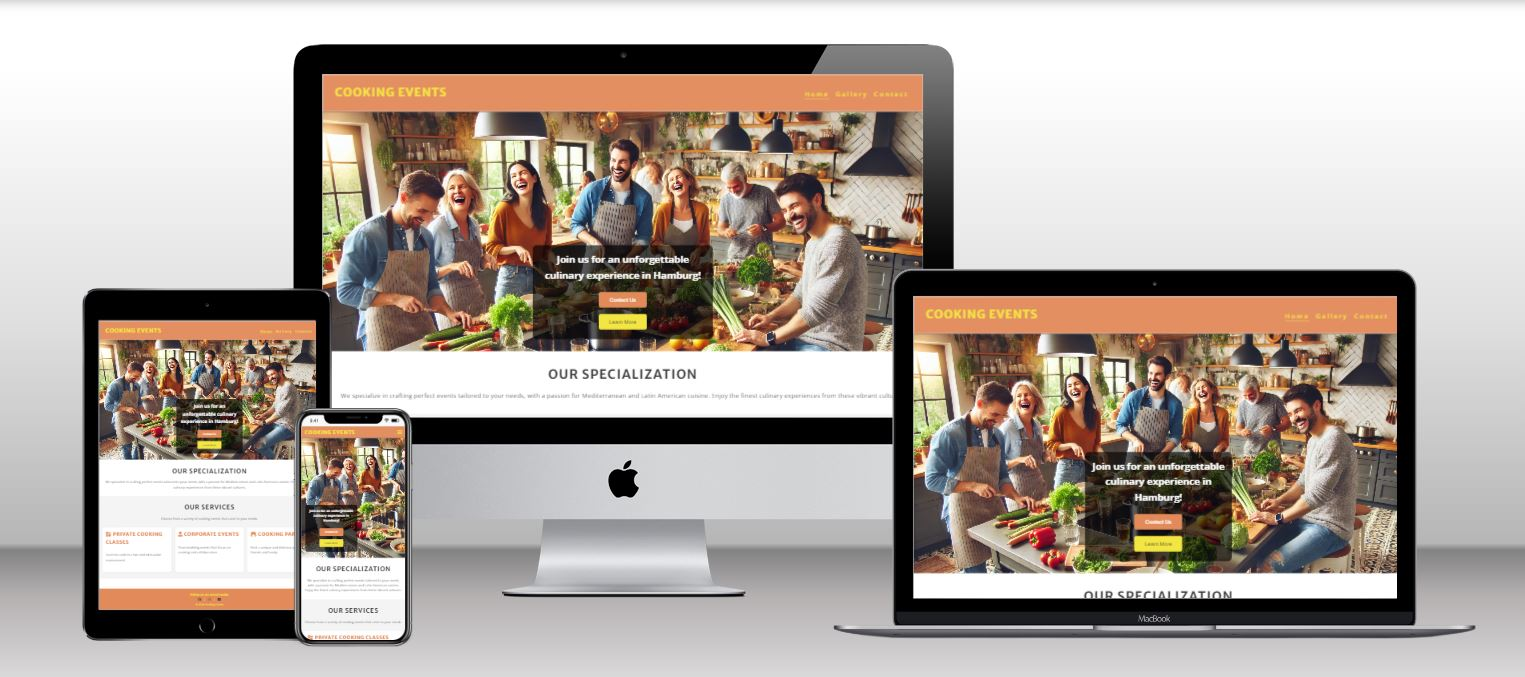
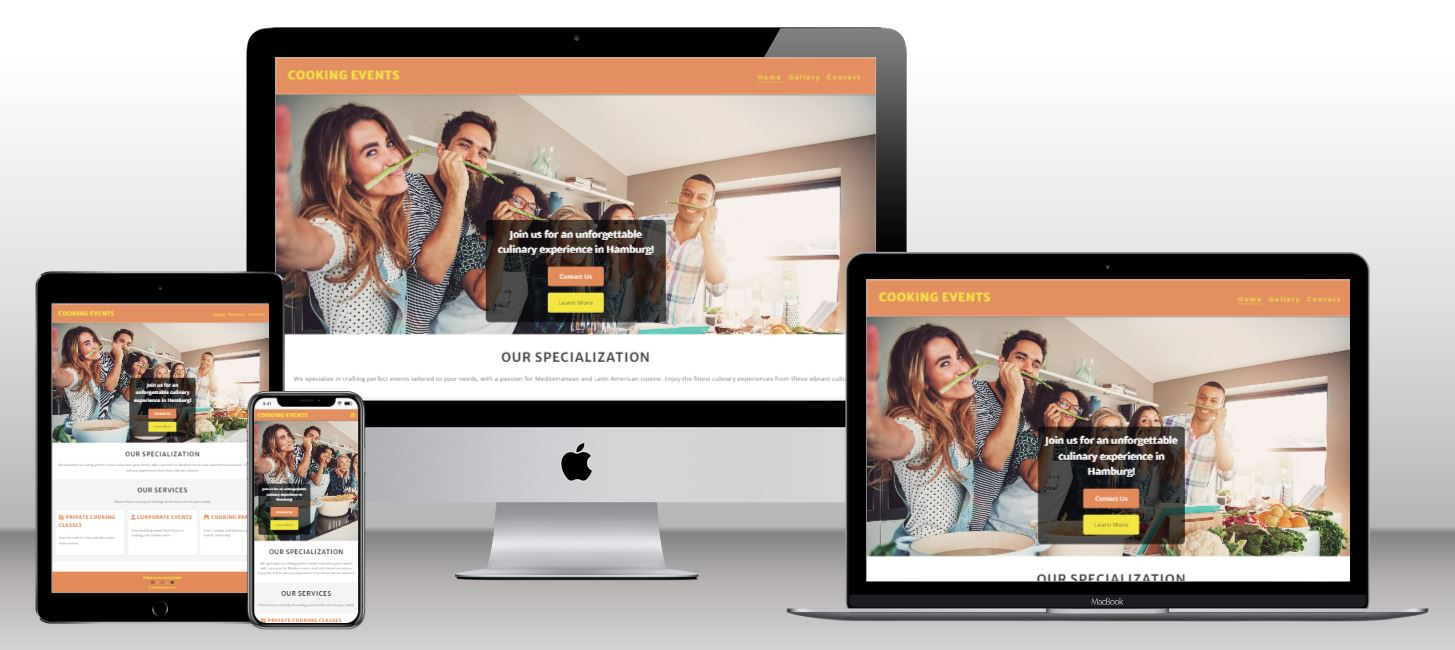
Major update to the readme

diff --git a/README.md b/README.md
@@ -1,55 +1,55 @@
 # Cooking Event Service Website
 
-![Cooking Events](readme-docs\multi-device-website-mockup.JPG)
+![Cooking Events](readme-docs/features/multi-device-website-mockup.JPG)
 
 Visit the deployed site: [HH Cooking Events](https://galindo89.github.io/cooking-events-page-pgz/)
 
-A website for showcasing and organizing cooking events in Hamburg, Germany.
+A website that presents an cooking event service provided with passion for mediterranean and latin american food that organizes private cooking events in Hamburg, Germany
 
 
 ## CONTENTS
 
-- [Introduction](#introduction)
-  - [Purpose of the project](#purpose-of-the-project)
-- [User Experience](#user-experience-ux)
-  - [User Stories](#user-stories)
-- [Design](#design)
-  - [Colour Scheme](#colour-scheme)
-  - [Typography](#typography)
-  - [Imagery](#imagery)
-  - [Wireframes](#wireframes)
-  - [Features](#features)
-    - [Home Page](#home-page)
-    - [Gallery Page](#gallery-page)
-    - [Contact Page](#contact-page)
-    - [Confirmation Page](#confirmation-page)
-    - [Future Implementations](#future-implementations)
-  - [Accessibility](#accessibility)
-- [Technologies Used](#technologies-used)
-  - [Languages Used](#languages-used)
-  - [Frameworks, Libraries & Programs Used](#frameworks-libraries--programs-used)
-- [Deployment & Local Development](#deployment--local-development)
-  - [Deployment](#deployment)
-  - [Local Development](#local-development)
-    - [How to Fork](#how-to-fork)
-    - [How to Clone](#how-to-clone)
-- [Testing](#testing)
-  - [Feature Testing](#feature-testing)
-  - [Browser Compatibility](#browser-compatibility)
-  - [Responsiveness Testing](#responsiveness-testing)
-  - [Code Validation](#code-validation)
-    -[HTML](#HTML)
-    -[CSS](#CSS)
-  - [Lighthouse Testing](#lighthouse-testing)
-  - [Accessibility Testing](#accessibility-testing)
-  - [Bugs Documentation](#bugs-documentation)
-  - [Solved Bugs](#solved-bugs)
-  - [Known Bugs](#known-bugs)
-- [Credits](#credits)
-  - [Code Used](#code-used)
-  - [Content](#content)
-  - [Media](#media)
-  - [Acknowledgments](#acknowledgments)
+- [Cooking Event Service Website](#cooking-event-service-website)
+  - [CONTENTS](#contents)
+  - [Introduction](#introduction)
+    - [Purpose of the project](#purpose-of-the-project)
+  - [User Experience (UX)](#user-experience-ux)
+    - [User Stories](#user-stories)
+  - [Design](#design)
+    - [Colour Scheme](#colour-scheme)
+    - [Typography](#typography)
+    - [Imagery](#imagery)
+    - [Wireframes](#wireframes)
+    - [Features](#features)
+      - [Home Page](#home-page)
+      - [Gallery Page](#gallery-page)
+      - [Contact Page](#contact-page)
+      - [Confirmation Page](#confirmation-page)
+      - [Future Implementations](#future-implementations)
+  - [Technologies Used](#technologies-used)
+    - [Languages Used](#languages-used)
+    - [Frameworks, Libraries \& Programs Used](#frameworks-libraries--programs-used)
+  - [Deployment \& Local Development](#deployment--local-development)
+    - [Deployment](#deployment)
+    - [Local Development](#local-development)
+      - [How to Fork](#how-to-fork)
+      - [How to Clone](#how-to-clone)
+  - [Testing](#testing)
+    - [Feature Testing](#feature-testing)
+    - [Browser Compatibility](#browser-compatibility)
+    - [Responsiveness Testing](#responsiveness-testing)
+    - [Code Validation](#code-validation)
+      - [HTML](#html)
+      - [CSS](#css)
+    - [Lighthouse Testing](#lighthouse-testing)
+    - [Bugs Documentation](#bugs-documentation)
+    - [Solved Bugs](#solved-bugs)
+    - [Known Bugs](#known-bugs)
+  - [Credits](#credits)
+    - [Code Used](#code-used)
+    - [Media](#media)
+    - [Acknowledgments](#acknowledgments)
+    - [Contact](#contact)
 
 ## Introduction
 ### Purpose of the project
@@ -85,7 +85,12 @@ For the typography, two primary fonts to enhance readability and complement the 
 Images were chosen to showcase the vibrant and interactive nature of our cooking events, including photos of past events and culinary creations.
 
 ### Wireframes
-(Add wireframes here)
+During the design phase, wireframes were used to sketch the potential structure of the web page, especially for the mobile and desktop versions. The wireframes were hand-sketched. The following pictures show the sketches produced:
+
+
+![Home Page Desktop](readme-docs/wireframes/wireframe-home-desktop.jpg)
+![Home Page Mobile](readme-docs/wireframes/wireframe-home-mobile.jpg)
+![Contact Page](readme-docs/wireframes/wireframe-contact-form-mobile.jpg)
 
 ### Features
 The website is designed to provide visitors with a comprehensive and engaging experience, showcasing what the company offers and its specialization in Mediterranean and Latin American food events. Each page serves a specific purpose, ensuring that users can easily find the information they need and interact with the site effectively.
@@ -131,7 +136,6 @@ Future features may include:
 
 ### Frameworks, Libraries & Programs Used
 
-- [Balsamiq](https://balsamiq.com/) - Used to create wireframes.
 - [Git](https://git-scm.com/) - For version control.
 - [GitHub](https://github.com/) - To save and store the files for the website.
 - [GitPod](https://gitpod.io/) - IDE used to create the site.
@@ -177,7 +181,41 @@ To clone the repository:
 
 ## Testing
 ### Feature Testing
-(Add details about feature testing here)
+
+
+In the feature testing phase, we conducted a series of tests to ensure that all key functionalities of the website are working as intended. We tested various components across different pages, including the navigation bar, footer, buttons, sections, and forms. Each feature was tested in different scenarios to verify their behavior and responsiveness.
+
+All test cases were conducted using three different web browsers:
+- Google Chrome
+- Firefox
+- Microsoft Edge
+
+The devices used for the testing were:
+- Google Pixel 7
+- Microsoft Surface Notebook 2
+- 1920 x 1080 desktop monitor
+
+Below is a summary of the test cases and their results.
+
+
+| Feature                | Page         | Scenario                                                                                                       | Steps                                                                                                       | Expected result                                                                                                                                                                                                                                                                                                | Result |
+| ---------------------- | ------------ | -------------------------------------------------------------------------------------------------------------- | ----------------------------------------------------------------------------------------------------------- | -------------------------------------------------------------------------------------------------------------------------------------------------------------------------------------------------------------------------------------------------------------------------------------------------------------- | ------ |
+| Navigation bar         | All          | User clicks on Logo section                                                                                    | Go to any of the pages and click on the Cooking Event logo                                                  | User is redirected to the home page in the same tab                                                                                                                                                                                                                                                            | Passed |
+| Navigation bar         | All          | User clicks on any of the links available                                                                      | Go to any of the pages. On the top right click on any of the available links                                | User is redirected to the corresponding page in the same tab. When in the page the navigation bar highlights the page where you currently are                                                                                                                                                                  | Passed |
+| Navigation bar         | All          | User is accessing the page with a device with a screen smaller than 768px. User goes to the navigation section | Go to the navigation section.                                                                               | Navigation links will be hidden and instead the UI will present a burger button. When clicking on it the UI will present the list of pages (Home, Gallery, Contact)                                                                                                                                            | Passed |
+| Footer                 | All          | User clicks on any of the social media links available                                                         | Go to the footer section of any of the pages. Click on any of the social media links                        | User will be directed to the corresponding social media site. A new tab is opened.                                                                                                                                                                                                                             | Passed |
+| Home page              | Home page    | User enters the home page                                                                                      | Enter the URL of the page or click on any of the links that directs to the home page                        | Home page loads. The hero section is loaded and a message including 2 buttons is displayed                                                                                                                                                                                                                     | Passed |
+| Learn More Button      | Home page    | User is in the home page and clicks on the "Learn More" button                                                 | Go to the home page, in the hero image section, 2 buttons will be displayed. Click on the Learn More button | The user will be directed to the specialization and services sections that are also part of the home page                                                                                                                                                                                                      | Passed |
+| Contact Us Button      | Home page    | User is in the home page and clicks on the "Contact Us" button                                                 | Go to the home page, in the hero image section, 2 buttons will be displayed. Click on "Contact Us" button   | The user will be directed to the contact page. There the user will be able to fill in a form to submit a request for reservation or for interest into a specific event                                                                                                                                         | Passed |
+| Specialization section | Home page    | User accesses the home page                                                                                    | Go to the home page. Scroll down below the hero section                                                     | User is presented with a description of what is the specialty of the service provider                                                                                                                                                                                                                          | Passed |
+| Services section       | Home page    | User accesses the home page                                                                                    | Go to the home page. Scroll down below the specialization section                                           | User is presented with a description of the different types of cooking events offered                                                                                                                                                                                                                          | Passed |
+| Gallery with pictures  | Gallery      | User accesses the gallery page                                                                                 | Click on any link leading to the gallery section                                                            | User will be displayed with a different number of images. For screens with a width bigger than 1200px, the images will be displayed in four columns. For screens between 768px and 1200px, the images will be displayed in two columns. For any screen below 768px, the images will be displayed in one column | Passed |
+| Submit Form            | Contact      | User accesses the contact page                                                                                 | Click on any link leading to the contact page                                                               | User is directed to the contact page in the same tab. Page loads a form with several fields to fill in                                                                                                                                                                                                         | Passed |
+| Submit Form            | Contact      | Users fill in the contact page                                                                                 | Go to the contact page. Start filling in the form                                                           | User is able to fill in the form. The UI displays clearly which fields are mandatory                                                                                                                                                                                                                           | Passed |
+| Submit Form            | Contact      | Users click on submit form. Form has still required fields empty                                               | Go to the contact page. Click on submit form button                                                         | User is notified by the UI that the form is still incomplete. User cannot submit the form                                                                                                                                                                                                                      | Passed |
+| Submit Form            | Contact      | Users click on submit form. Form has all mandatory fields properly filled in                                   | Go to the contact page. Fill in all mandatory fields from the form                                          | User is directed to a confirmation page in the same tab. The confirmation page confirms the user that the request has been successfully sent. It presents also besides the navigation bar a home button for the user to go back to the home page                                                               | Passed |
+| Confirmation message   | Confirmation | User clicks on the home button                                                                                 | In the confirmation page, below the confirmation message, click on the home button                          | User is directed to the home page in the same tab                                                                                                                                                                                                                                                              | Passed |
+
 
 ### Browser Compatibility
 The project was tested in Chrome, Firefox, and Edge. No issues were found.
@@ -185,7 +223,7 @@ The project was tested in Chrome, Firefox, and Edge. No issues were found.
 The results of the testing are presented in the following table:
 
 | Browser tested | Intended appearance | Intended responsiveness | Comment         |
-|----------------|---------------------|-------------------------|-----------------|
+| -------------- | ------------------- | ----------------------- | --------------- |
 | Chrome         | Good                | Good                    | No issues found |
 | Firefox        | Good                | Good                    | No issues found |
 | Edge           | Good                | Good                    | No issues found |
@@ -197,12 +235,12 @@ The project was tested directly on 3 different screens:
 - Notebook: Microsoft Surface Notebook 2
 - Desktop monitor: 1920 x 1080 resolution
 
-| Device tested                      | Site responsiveness <= 767 px                                                         | Site responsiveness 768px <= x <= 991px                                                     | Site responsiveness x >= 992px                                                                                     |
-|------------------------------------|---------------------------------------------------------------------------------------|---------------------------------------------------------------------------------------------|--------------------------------------------------------------------------------------------------------------------|
-| Google Pixel 7                     | Good. All pages rendering content as expected and behaving as implemented              | N/A                                                                                         | N/A                                                                                                                |
-| iPad mini (over Chrome's developer console) | N/A                                                                                   | Good. All pages rendering content as expected and behaving as implemented                    | N/A                                                                                                                |
-| 1504 x 1003 Microsoft Surface Notebook screen | N/A                                                                                   | N/A                                                                                         | Good. All pages rendering content as expected and behaving as implemented                                            |
-| 1920 x 1080 desktop monitor        | N/A                                                                                   | N/A                                                                                         | Good. All pages rendering content as expected and behaving as implemented                                            |
+| Device tested                                 | Site responsiveness <= 767 px                                             | Site responsiveness 768px <= x <= 991px                                   | Site responsiveness x >= 992px                                            |
+| --------------------------------------------- | ------------------------------------------------------------------------- | ------------------------------------------------------------------------- | ------------------------------------------------------------------------- |
+| Google Pixel 7                                | Good. All pages rendering content as expected and behaving as implemented | N/A                                                                       | N/A                                                                       |
+| iPad mini (over Chrome's developer console)   | N/A                                                                       | Good. All pages rendering content as expected and behaving as implemented | N/A                                                                       |
+| 1504 x 1003 Microsoft Surface Notebook screen | N/A                                                                       | N/A                                                                       | Good. All pages rendering content as expected and behaving as implemented |
+| 1920 x 1080 desktop monitor                   | N/A                                                                       | N/A                                                                       | Good. All pages rendering content as expected and behaving as implemented |
 
 
 ### Code Validation
@@ -212,19 +250,19 @@ HTML code validation was conducted using the [W3C Markup Validation Service](htt
 
 
 
-| Page Tested         | Errors                                                                                                                                           | Solutions applied?                                                                                                                      | Screenshot of clear validator output                                           |
-|---------------------|--------------------------------------------------------------------------------------------------------------------------------------------------|-----------------------------------------------------------------------------------------------------------------------------------------|--------------------------------------------------------------------------------|
-| index.html          | "Error: The element button must not appear as a descendant of the a element.<br>Error: Stray end tag i.<br>Error: Stray end tag i.<br>Error: Stray end tag main." | "Remove the `<button>` elements from inside `<a>` tags. Replace them with styled `<a>` tags or modify the structure to avoid nesting `<button>` inside `<a>`. <br><br>Fix the stray end tag `<i>` and `<main>` issues by removing the extra closing tags." | ![index.html validation result](readme-docs/testing/code-validation-index-html-after-fix.JPG) |
-| gallery.html        | No error                                                                                                                                         | N/A                                                                                                                                     | ![gallery.html validation result](readme-docs/testing/code-validation-gallery.JPG) |
-| contact.html        | Error: The value of the for attribute of the label element must be the ID of a non-hidden form control.                                           | Update the "for" attribute of the label   element                                                                                           | ![contact.html validation result](readme-docs/testing/code-validation-contact-after-fix.JPG) |
-| confirmation.html   | No error  | N/A | ![confirmation.html validation result](readme-docs/testing/code-validation-confirmation.JPG) |
+| Page Tested       | Errors                                                                                                                                                            | Solutions applied?                                                                                                                                                                                                                                         | Screenshot of clear validator output                                                          |
+| ----------------- | ----------------------------------------------------------------------------------------------------------------------------------------------------------------- | ---------------------------------------------------------------------------------------------------------------------------------------------------------------------------------------------------------------------------------------------------------- | --------------------------------------------------------------------------------------------- |
+| index.html        | "Error: The element button must not appear as a descendant of the a element.<br>Error: Stray end tag i.<br>Error: Stray end tag i.<br>Error: Stray end tag main." | "Remove the `<button>` elements from inside `<a>` tags. Replace them with styled `<a>` tags or modify the structure to avoid nesting `<button>` inside `<a>`. <br><br>Fix the stray end tag `<i>` and `<main>` issues by removing the extra closing tags." | ![index.html validation result](readme-docs/testing/code-validation-index-html-after-fix.JPG) |
+| gallery.html      | No error                                                                                                                                                          | N/A                                                                                                                                                                                                                                                        | ![gallery.html validation result](readme-docs/testing/code-validation-gallery.JPG)            |
+| contact.html      | Error: The value of the for attribute of the label element must be the ID of a non-hidden form control.                                                           | Update the "for" attribute of the label   element                                                                                                                                                                                                          | ![contact.html validation result](readme-docs/testing/code-validation-contact-after-fix.JPG)  |
+| confirmation.html | No error                                                                                                                                                          | N/A                                                                                                                                                                                                                                                        | ![confirmation.html validation result](readme-docs/testing/code-validation-confirmation.JPG)  |
 
 #### CSS
 CSS code was validated using the [W3C CSS Validation Service](https://jigsaw.w3.org/css-validator/validator).
 
 
-| File      | Errors                                                                                                                    | Solutions applied?                                                                                      | Screenshot of clear validator output                                    |
-|-----------|---------------------------------------------------------------------------------------------------------------------------|---------------------------------------------------------------------------------------------------------|--------------------------------------------------------------------------|
+| File      | Errors                                                                                                                                                                                                       | Solutions applied?                                                                              | Screenshot of clear validator output                                              |
+| --------- | ------------------------------------------------------------------------------------------------------------------------------------------------------------------------------------------------------------ | ----------------------------------------------------------------------------------------------- | --------------------------------------------------------------------------------- |
 | style.css | "Value Error: text-align wrap is not a text-align value: wrap<br>Parse Error /*Center the form in the contact section */ / .contact form { padding: 3rem; width: 60%; border-radius: 10px; }<br>Parse Error" | Removing unnecessary "text-align variable" from selector<br>Removing unnecessary '/' character" | ![style.css validation result](readme-docs/testing/code-validation-style-css.JPG) |
 
 
@@ -247,138 +285,42 @@ Below are the results:
 
 
 ### Bugs Documentation
-(Add details about bugs documentation here)
+
+During the implementation and testing phase of this project, there where several bugs identified and solved. The table  below presets the bugs identified. Consider please that during the implementation there were definitely more bugs, but they grudally solved while implementing and poloshing the page. Therefore they may not be listed here. 
+
+| Bug                                                                                                               | How we solved it                                                                                                                                                                                                           | Status             |
+| ----------------------------------------------------------------------------------------------------------------- | -------------------------------------------------------------------------------------------------------------------------------------------------------------------------------------------------------------------------- | ------------------ |
+| Original hero image of the home page was distorted. The faces of some of the people in the picture were stretched | We replaced the hero image with another one                                                                                                                                                                                | Fixed and deployed |
+| Picture not displaying in the gallery section                                                                     | The picture got renamed and mistakenly deleted during the updates to the names of the folders to comply with naming conventions. We updated the corresponding image element in the gallery section and uploaded a new file | Fixed and deployed |
+| Calendar icon in the calendar field of the Contact form not visible                                               | The icon's color was not contrasting with the form's background. This was due to how the web browser was rendering that icon. To solve the issue, it was necessary to hide the default icon and set up a new one.          | Fixed and deployed |
+
+
 
 ### Solved Bugs
-(Add details about solved bugs here)
+See above.
 
 ### Known Bugs
-(Add details about known bugs here)
+As of now, after the testing conducted on this page, there are no known bugs. It is important to mention that during the Lighthouse testing, the performance of the web page for mobile provided several insights on specific sections of the web page that need to be improved.
 
 ## Credits
 ### Code Used
-(Add information about code used here)
+This web page was generated by the authr, using the skills and knowledge gathered during the modules of HTML and CSS. It is important to mention that although the majority of the code was produced by him, he guided himself specially the Love-Running project. In particular, the following two sections provided good examples to Mr. Galindo Zapata:
 
-### Content
+1. Gallery section
+2. Hiding the nav bar for different screen sizes and creating a "burger" navigation menu.
+
+Furthermore, there was an implementation to solve one of the bugs related to the calendar icon in the contact form. You can find a link to the code solution [here](https://stackoverflow.com/questions/76844615/how-to-style-the-calendar-icon-in-a-date-input).
 
 
 ### Media
-(Add information about media here)
+Media used was downloaded from iStock and Google.
 
 ### Acknowledgments
-(Add acknowledgments here)
 
+1. I want to thank my tutor for all the guidance given during the project.
+2. I also want to thank the community from Code Institute. Their timely questions, comments in the Slack channels, and willingness to help each other made this project less difficult.
+3. I am grateful to the Code Institute team for the provided material and examples, which guided us on how to proceed with this project.
+4. I would like to acknowledge and thank the YouTube channel [Slaying The Dragon](https://www.youtube.com/@slayingthedragon) for their excellent tutorials, especially for CSS, which were of great help.
 
-
-
-
-
-
-## Purpose of the Project
-The purpose of this project is to create a website for a cooking event service organizer located in Hamburg, Germany. The website is designed to showcase the services and events offered, providing visitors with detailed information and easy navigation.
-
-The main objective here is to present a simple website that presents the services provided and the value proposition of the serivces. Furthermore it presents also a gallery that displays previous events. It also provides the suer with a contact for for them to make request for reservations. 
-
-## User Stories
-- As a visitor, I want to learn about the cooking event services offered, so that I can decide if I book one event. 
-- As a potential client, I want to understand what types of cooking events are available, so that I can find an event that interests me.
-- As a user, I want to contact the organizer through the website, so that I can ask questions or make a booking.
-- As a visitor, I want to see images and descriptions of past events, so that I can get an idea of what to expect.
-
-## Features
-
-#### Home Page
-
-The home page includes an introduction and featured events to engage visitors and provide essential information at a glance.
-
-![Home Page](documentation/features/home-page.webp)
-
-#### Gallery Page
-
-The gallery page showcases images of past events to give visitors an idea of what to expect.
-
-![Gallery Page](documentation/features/gallery-page.webp)
-
-#### Contact Page
-
-The contact page includes a form for inquiries and event bookings, allowing users to easily reach out to the organizer.
-
-![Contact Page](documentation/features/contact-page.webp)
-
-#### Confirmation Page
-
-The confirmation page displays a thank you message and confirmation details after a user submits the contact form.
-
-![Confirmation Page](documentation/features/confirmation-page.webp)
-
-- **Footer:** Social media links and copyright information.
-
-## Pages
-- **index.html:** Home page with introduction and featured events.
-- **gallery.html:** Gallery page showcasing images of past events.
-- **contact.html:** Contact page with a form for inquiries and event bookings.
-- **confirmation.html:** Confirmation page to display after form submission (assuming this is included based on the form action).
-
-## Future Features
-- User login and registration for event booking.
-- A service page that provides more details of the different services including calls to action and pricings.  
-- Calendar view for availabilty
-- Improving the gallery by allowing the user to get a description of the images when hovering over or clicking on them
-- Blog section for cooking tips and event highlights.
-
-## Typography and Color Scheme
-- **Typography:** 
-  - Primary Font: 'Open Sans', sans-serif
-  - Secondary Font: 'Merriweather Sans', sans-serif
-- **Color Scheme:**
-  - Primary Color: #E28A59 (Background, Buttons)
-  - Secondary Color: #F3E542 (Text, Highlights)
-  - Accent Color: #7A9E3B (Hover States)
-  - Background Color: #F4F4F4 (Body Background)
-  - Text Color: #3A3A3A
-
-## Wireframes
-- Home Page: ![Home Page Wireframe](wireframe-home.png)
-- Services Page: ![Services Page Wireframe](wireframe-services.png)
-- Events Page: ![Events Page Wireframe](wireframe-events.png)
-
-## Technology
-- **HTML5**
-- **CSS3**
-- **Git & GitHub**
-
-## Testing
-### 8.1 Code Validation
-- HTML: Tested using W3C Markup Validation Service [https://validator.w3.org/]
-- CSS: Tested using W3C CSS Validation Service [https://jigsaw.w3.org/css-validator/]
-
-### 8.2 Test Cases (User Story Based with Screenshots)
-- **User Story 1:** Viewing service details - ![Service Details](screenshot-service-details.png)
-- **User Story 2:** Contacting the organizer - ![Contact Form](screenshot-contact-form.png)
-
-### 8.3 Fixed Bugs
-- Fixed navigation bar alignment issues.
-- Fixed date picker incon issue. 
-- Resolved form validation errors on the contact page.
-
-### 8.4 Supported Screens and Browsers
-- **Screens:** Desktop, Tablet, Mobile
-- **Browsers:** Chrome, Firefox, Safari, Edge
-
-## Deployment
-### 9.1 Via Gitpod
-- Set up a Gitpod workspace for development.
-- Regularly pushed commits to the GitHub repository.
-
-### 9.2 Via GitHub Pages
-- Deployed the website using GitHub Pages.
-- To view the site, visit [GitHub Pages Deployment URL - TBD].
-
-## Credits
-- **Development:** Pablo Galindo Zapata
-- **Images and Videos:**
-  - Source of images: [source if applicable]
-  - Source of videos: [source if applicable]
-- **CSS and HTML Help:**
-  - Stack Overflow
-- **Contact:** For more information, please contact us at [pablo.galindozapata@gmail.com].
+### Contact
+For more information about the page,  please contact  [pablo.galindozapata@gmail.com].
